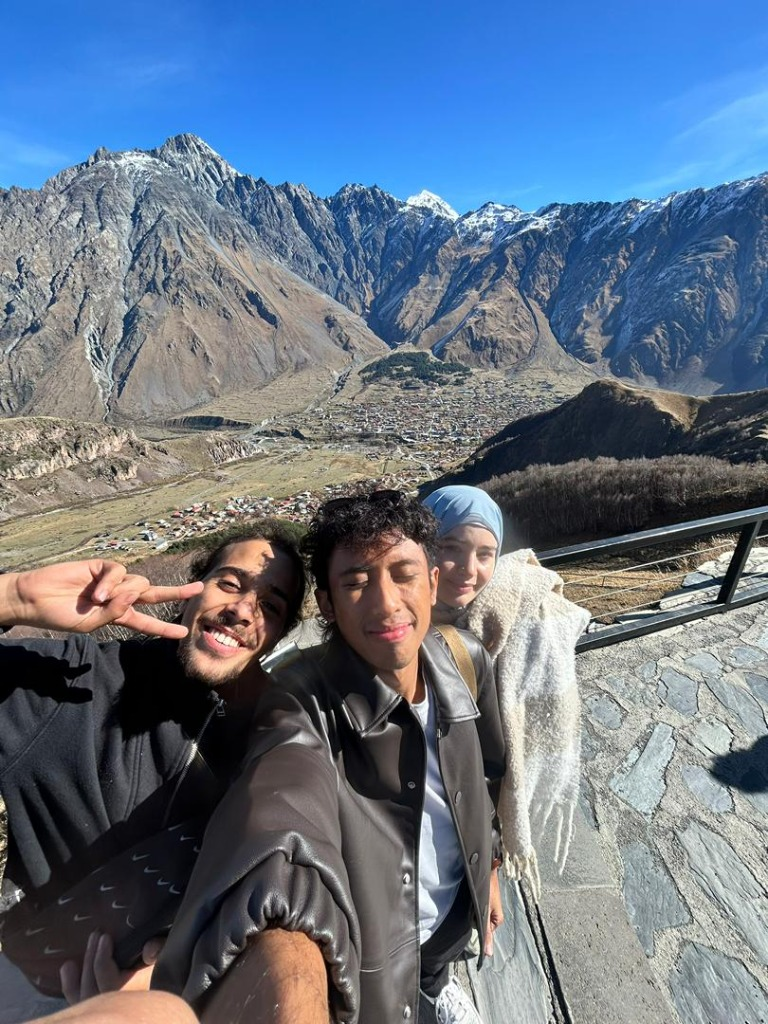
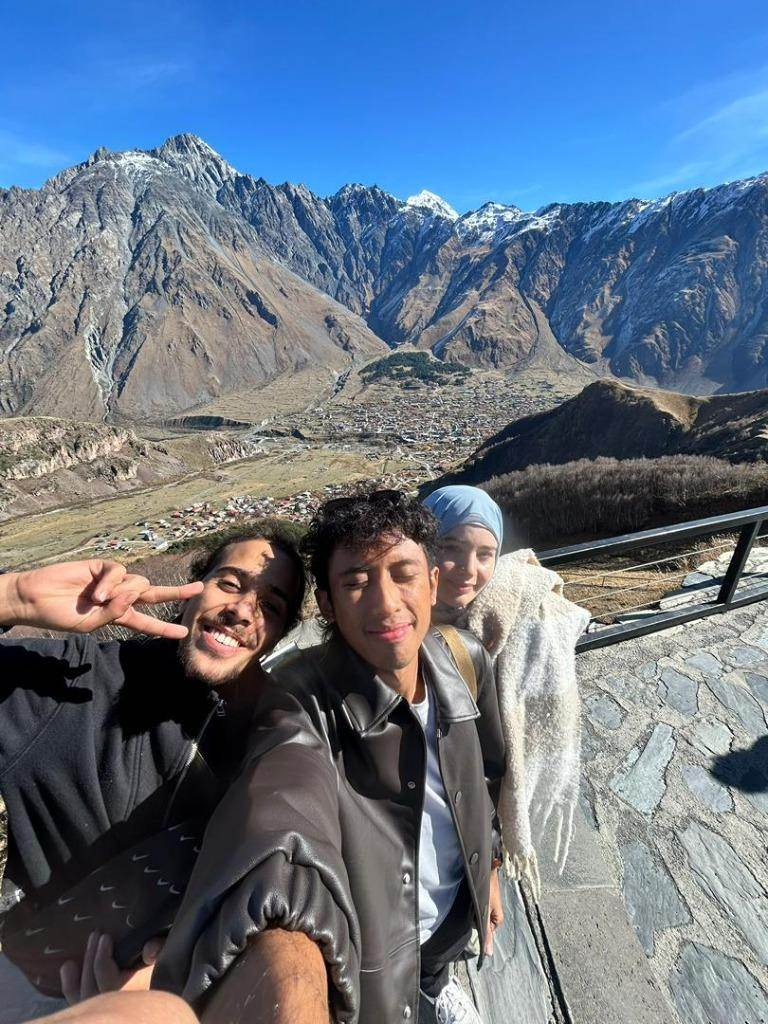
Optimize: Aggressive image compression and JPG conversion

diff --git a/index.html b/index.html
@@ -550,8 +550,8 @@
             </div>
 
             <div class="global-collage">
-                <img src="turkey1.jpg" alt="Bilkent Exchange 1" class="collage-img img-1" loading="lazy">
-                <img src="turkey2.jpg" alt="Bilkent Exchange 2" class="collage-img img-2" loading="lazy">
+                <img src="bilkent1.jpg" alt="Bilkent Exchange 1" class="collage-img img-1" loading="lazy">
+                <img src="bilkent2.jpg" alt="Bilkent Exchange 2" class="collage-img img-2" loading="lazy">
                 <img src="turkey3.jpg" alt="Bilkent Exchange 3" class="collage-img img-3" loading="lazy">
             </div>
         </div>

diff --git a/style.css b/style.css
@@ -644,7 +644,7 @@ body {
 }
 
 .theme-eaid {
-    background: linear-gradient(rgba(0, 0, 0, 0.55), rgba(0, 0, 0, 0.55)), url('eaid_thumb.png');
+    background: linear-gradient(rgba(0, 0, 0, 0.55), rgba(0, 0, 0, 0.55)), url('eaid_thumb.jpg');
     background-size: cover;
     background-position: center;
 }
